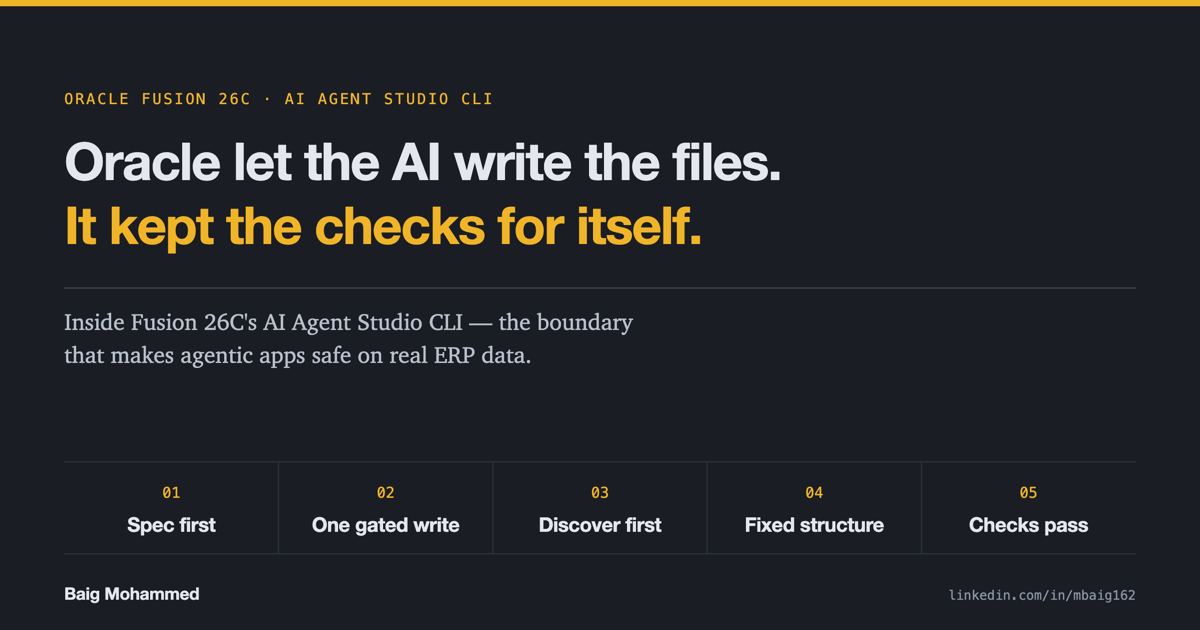
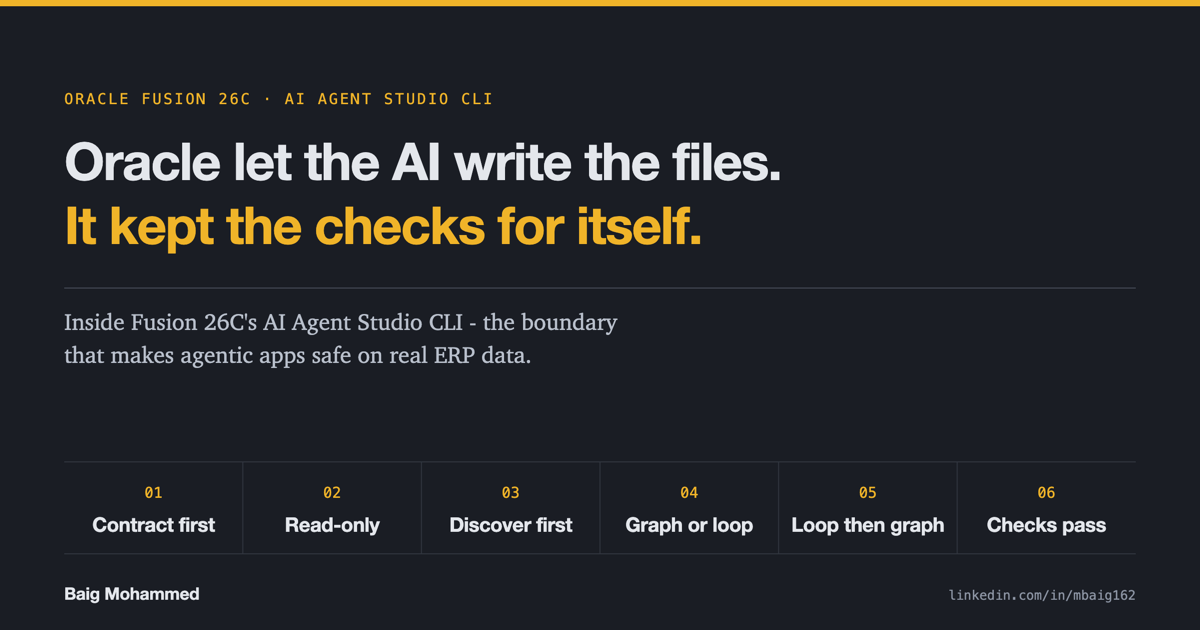
Replace the five rules with six practices, including graph vs loop
Recast the principles section as agent engineering practice rather than a
restatement of one framing: contract before code, read-only until a human
opens the gate, discover first, graph or loop, loop to learn then graph to
ship, and validation as the definition of done.

The two new ones carry what was missing. 04 names the shapes: a graph is
fixed nodes and edges, so the same input takes the same path and a failure
names its node; a loop is the model choosing its next action until it decides
it is done, which handles the unpredictable and wanders. 05 is how they
compose: explore in the loop with a human watching, freeze the proven path
into a graph for production, and where one step stays open-ended bound a loop
inside a single node so the graph keeps control flow. Oracle draws the same
line as workflow teams versus supervisor teams, already compared in section
10, so section 3 now forwards to it.

Six practice cards replace five rule cards plus the summary, so the figure
count stays at 34 and nothing downstream renumbers. Social cards go to six
columns and drop the last em dash.

diff --git a/docs/index.html b/docs/index.html
@@ -21,7 +21,7 @@ if(t==='dark'||t==='light')document.documentElement.setAttribute('data-theme',t)
 <meta property="og:image" content="https://mabaig.github.io/fusion-ai-studio-guide/social/og-card.png">
 <meta property="og:image:width" content="1200">
 <meta property="og:image:height" content="630">
-<meta property="og:image:alt" content="Oracle Let the AI Write the Files. It Kept the Checks for Itself. - and the five rules: spec first, one gated write, discover first, fixed structure, checks pass.">
+<meta property="og:image:alt" content="Oracle Let the AI Write the Files. It Kept the Checks for Itself. - and the six practices: contract first, read-only default, discover first, graph or loop, loop then graph, checks pass.">
 <meta name="twitter:card" content="summary_large_image">
 <meta name="twitter:title" content="Oracle Let the AI Write the Files. It Kept the Checks for Itself.">
 <meta name="twitter:description" content="Every step of driving the Oracle AI Agent Studio CLI from Claude Code, for Fusion release 26C.">
@@ -289,7 +289,7 @@ td code{white-space:nowrap}
 .pill-warn{color:var(--warn);border-color:color-mix(in srgb,var(--warn) 45%,transparent);background:color-mix(in srgb,var(--warn) 10%,transparent)}
 .pill-crit{color:var(--crit);border-color:color-mix(in srgb,var(--crit) 45%,transparent);background:color-mix(in srgb,var(--crit) 9%,transparent)}
 
-/* ─── the five rules ─────────────────────────────────────────────────── */
+/* ─── the six practices ──────────────────────────────────────────────── */
 .rules{margin:2rem 0 2.5rem;border-top:1px solid var(--rule-strong)}
 .rule-row{
   display:grid;grid-template-columns:4.5rem 1fr;gap:1.5rem;
@@ -465,7 +465,7 @@ figure img{transition:box-shadow .5s ease}
     <ol>
       <li><a href="#what"><span class="n">01</span><span>What this actually is</span></a></li>
       <li><a href="#who"><span class="n">02</span><span>Who this is for</span></a></li>
-      <li><a href="#rules"><span class="n">03</span><span>The five rules</span></a></li>
+      <li><a href="#rules"><span class="n">03</span><span>The six practices</span></a></li>
       <li><a href="#before"><span class="n">04</span><span>Before you start</span></a></li>
       <li><a href="#setup"><span class="n">05</span><span>Setup, steps 1&ndash;10</span></a></li>
       <li><a href="#build"><span class="n">06</span><span>First build, steps 11&ndash;16</span></a></li>
@@ -568,74 +568,83 @@ figure img{transition:box-shadow .5s ease}
   </div>
   <div class="card">
     <h4>Everyone else</h4>
-    <p>Stay for the five rules. They apply to any agent you build, on any platform.</p>
+    <p>Stay for the six practices. They apply to any agent you build, on any platform.</p>
   </div>
 </div>
 
 <figure>
-  <img src="images/10-who-this-is-for.webp" alt="Three audiences and how far each one gets: anyone stops at a validated file, Fusion Applications customers get all the way to live for real users, and everyone else stops at the five rules. No Fusion environment is needed to build and validate.">
+  <img src="images/10-who-this-is-for.webp" alt="Three audiences and how far each one gets: anyone stops at a validated file, Fusion Applications customers get all the way to live for real users, and everyone else stops at the six practices. No Fusion environment is needed to build and validate.">
   <figcaption><span class="fn">Fig. 4</span><span>Three audiences, three different stopping points.</span></figcaption>
 </figure>
 </section>
 
 <!-- ═══ 03 ══════════════════════════════════════════════════════════ -->
 <section id="rules">
-<h2><span class="sn">03</span><span>The five rules that make this work</span></h2>
+<h2><span class="sn">03</span><span>The six practices that make this work</span></h2>
 
-<p>Oracle did not just ship a tool. They shipped a set of habits, baked into the skill files. This is the part worth stealing even if you never touch Fusion.</p>
+<p>Oracle did not just ship a tool. They shipped a set of habits, baked into the skill files. Read them as agent engineering practice rather than Fusion trivia - every one of them takes a decision away from the model and hands it to a human or a check, and that holds anywhere a wrong answer costs something.</p>
 
 <div class="rules">
 
   <div class="rule-row">
     <div class="rn">01</div>
     <div>
-      <h3>The spec comes first</h3>
+      <h3>Agree the contract before any code</h3>
       <p>Nothing gets built until the plan is written down and you agree to it. Two screens, three panels, four detail views, and an explicit list of what it will <em>not</em> build yet.</p>
-      <p class="home">At home we say &ldquo;build me an HR app&rdquo; and hope. Here the agent hands you a written plan and waits.</p>
+      <p class="home">Arguing with a paragraph is free. Arguing with a generated build is a rebuild.</p>
     </div>
   </div>
 
   <div class="rule-row">
     <div class="rn">02</div>
     <div>
-      <h3>One gated write action</h3>
-      <p>Out of the box the app can look, but never change anything. Click around, dig in, ask questions - all read-only. The one action that touches real HR data has to be switched on by hand, and it asks before it does anything.</p>
-      <p class="home">Twelve tools and write access to everything, wired up on a Sunday, is how you get an incident.</p>
+      <h3>Read-only until a human opens the gate</h3>
+      <p>Out of the box the app can look, but never change anything. Click around, dig in, ask questions - all read-only. Every action that touches a real record is named, switched on by hand, and asks before it fires.</p>
+      <p class="home">Least privilege expressed as a default, not as a policy document. Twelve tools with write access, wired up on a Sunday, is how you get an incident.</p>
     </div>
   </div>
 
   <div class="rule-row">
     <div class="rn">03</div>
     <div>
-      <h3>Discover before you build</h3>
-      <p>The agent searches your files first, finds the workflows that already exist, and reuses them. It only builds what is genuinely missing, and it never edits or renames the rest.</p>
-      <p class="home">The most expensive agent in a big company is the one that rebuilds something that already existed.</p>
+      <h3>Discover first, and leave what you find alone</h3>
+      <p>The agent searches the workspace before it creates anything, finds the workflows and business objects that already exist, and reuses them. It builds only what is genuinely missing, and it never edits or renames the rest.</p>
+      <p class="home">The rename clause matters more than it looks: other artifacts call those by name. The most expensive agent in a big company is the one that rebuilds something that already existed.</p>
     </div>
   </div>
 
   <div class="rule-row">
     <div class="rn">04</div>
     <div>
-      <h3>Structure over improvisation</h3>
-      <p>Open one of these workflows and the agent is not making it up as it goes. The steps are fixed: work out what was asked, go get the data, let the model think, send back an answer. And it has <strong>sixty seconds</strong> to finish.</p>
-      <p class="home">One prompt, one model, and hope for the best. When speed and correctness both matter, fixed steps win.</p>
+      <h3>Graph the path you know. Loop the one you do not.</h3>
+      <p>Two shapes, and they are not interchangeable. A <strong>graph</strong> is fixed nodes and edges - resolve the request, fetch the data, let the model reason, return an answer. Same input, same path, and when it breaks you know which node broke. A <strong>loop</strong> is the model choosing its next action, seeing the result, and choosing again until it decides it is finished.</p>
+      <p class="home">The loop handles problems whose shape you cannot predict. It also wanders, costs an unpredictable number of turns, and cannot be held to a latency budget. The mistake is rarely picking the wrong one - it is not knowing which one you are in. Oracle draws the same line as workflow teams versus supervisor teams, compared in <a href="#apps">&sect;10</a>.</p>
     </div>
   </div>
 
   <div class="rule-row">
     <div class="rn">05</div>
     <div>
-      <h3>Unvalidated means unfinished</h3>
+      <h3>Loop to learn, graph to ship</h3>
+      <p>This is where the two earn their keep together. Run the loop where exploration is cheap and a human is watching - at build time, in the terminal - then freeze the path it proved into a graph that runs in production. Where a single step stays genuinely open-ended, put a bounded loop inside one graph node with a hard cap on iterations.</p>
+      <p class="home">That way the graph owns control flow and the loop owns only local judgement. It is also exactly what this guide does: a loop in Claude Code, driving validated commands, to produce a graph that ships.</p>
+    </div>
+  </div>
+
+  <div class="rule-row">
+    <div class="rn">06</div>
+    <div>
+      <h3>Validation is the definition of done</h3>
       <p>When the build finishes, the agent does not announce that it is done. It runs the checks first. If the checks have not passed, the skill treats the work as unfinished and fixes it before anything else.</p>
-      <p class="home">Your agent saying &ldquo;done&rdquo; is not proof. The checks passing is.</p>
+      <p class="home">An agent saying &ldquo;done&rdquo; is a prediction about its own output. A check passing is evidence. Only one of those is worth trusting.</p>
     </div>
   </div>
 
 </div>
 
 <figure>
-  <img src="images/09-five-rules-summary.webp" alt="The five rules, each in one line: the spec comes first - agree the plan in writing; one gated write action - it can look, not touch; discover before you build - find what exists, protect it; structure over improvisation - the model works inside fixed steps; unvalidated means unfinished - done means the checks passed.">
-  <figcaption><span class="fn">Fig. 5</span><span>How you ship agents when a wrong answer is not an option.</span></figcaption>
+  <img src="images/07-practice-04-graph-or-loop.webp" alt="Practice 04: graph the path you know, loop the one you do not. A graph is fixed nodes and edges, so the same input takes the same path and a failure names its node. A loop is the model choosing its next action until it decides it is done: flexible, and prone to wandering.">
+  <figcaption><span class="fn">Fig. 5</span><span>The one practice most teams get backwards: knowing which shape you are in.</span></figcaption>
 </figure>
 </section>
 
@@ -1022,7 +1031,7 @@ node .agents/skills/aistudio/scripts/aistudio.js whoami</code></pre></div>
 - Keep everything local. Only fetch, save, publish or push when I explicitly ask.
 - Never publish a workflow from the CLI.
 - After a material edit, run the matching `validate-*` command.
-  Unvalidated means unfinished.
+  Validation is the definition of done.
 - Never write a raw password into env.properties, command arguments, files or logs.
 
 ## Layout
@@ -1152,7 +1161,7 @@ Now wiring the graph.
 
 <figure>
   <img src="images/27-workflow-visual-editor.webp" alt="The Fusion AI Studio visual workflow editor showing a fulfilment workflow graph: resolve order number, resolve order, has order condition, get order lines or order not found, get actionable holds, get info holds.">
-  <figcaption><span class="fn">Fig. 21</span><span>Resolve the order &rarr; <em>has order?</em> &rarr; get the lines, or return <strong>Order Not Found</strong>. No improvisation, and sixty seconds to finish.</span></figcaption>
+  <figcaption><span class="fn">Fig. 21</span><span>Resolve the order &rarr; <em>has order?</em> &rarr; get the lines, or return <strong>Order Not Found</strong>. Every edge on the page before anything runs.</span></figcaption>
 </figure>
 
 <p>Click a <code>.apps</code> file and you get the app editor - the same one that exists in the Fusion UI:</p>
@@ -1753,11 +1762,11 @@ cp -R &lt;newly-unzipped&gt;/aistudio ~/fusion-ai-workspace/.agents/skills/
 <p>The interesting bit is that Oracle wrote down their own expertise as files a machine can read, and put a boundary between the AI and the running system. The AI writes files. Oracle checks the files. Oracle builds the screens. A human approves anything that changes a record.</p>
 
 <figure>
-  <img src="images/34-five-rules-closing.webp" alt="Closing summary: how you ship agents when a wrong answer is not an option - spec first, one gated write, discover first, fixed structure, checks pass. Not Oracle-specific.">
-  <figcaption><span class="fn">Fig. 29</span><span>The five rules are not Oracle-specific. Use them on whatever you build next.</span></figcaption>
+  <img src="images/34-practices-closing.webp" alt="Closing summary: how you ship agents when a wrong answer is not an option - contract first, read-only default, discover first, graph or loop, loop then graph, checks pass. Not Oracle-specific.">
+  <figcaption><span class="fn">Fig. 29</span><span>None of the six is Oracle-specific. Use them on whatever you build next.</span></figcaption>
 </figure>
 
-<p>That is how you ship agents when a wrong answer is not an option. The spec comes first. One gated write action. Discover before you build. Structure over improvisation. Unvalidated means unfinished.</p>
+<p>That is how you ship agents when a wrong answer is not an option. Agree the contract before any code. Read-only until a human opens the gate. Discover first, and leave what you find alone. Graph the path you know, loop the one you do not. Loop to learn, graph to ship. Validation is the definition of done.</p>
 
 <h3>Links</h3>
 <ul>

diff --git a/docs/images/src/34-practices-closing.html b/docs/images/src/34-practices-closing.html
@@ -1,0 +1,1 @@
+<!doctype html><meta charset=utf-8><style>html,body{margin:0;padding:0;background:#1A1D24}svg{display:block}</style><svg xmlns="http://www.w3.org/2000/svg" viewBox="0 0 900 396" width="900" height="396" role="img" aria-label="Closing summary: how you ship agents when a wrong answer is not an option - contract first, read-only default, discover first, graph or loop, loop then graph, checks pass. Not Oracle-specific."><rect width="900" height="396" fill="#1A1D24"/><text x="46" y="52" font-family="SF Mono, Menlo, Consolas, monospace" font-size="10.5" fill="#F0B429" letter-spacing="1.6">TAKE THIS HOME</text><text x="46" y="96" font-family="Helvetica Neue, Helvetica, Arial, sans-serif" font-size="31" font-weight="700" letter-spacing="-0.7"><tspan fill="#E4E7EC">How you ship agents when</tspan></text><text x="46" y="134" font-family="Helvetica Neue, Helvetica, Arial, sans-serif" font-size="31" font-weight="700" letter-spacing="-0.7"><tspan fill="#F0B429">a wrong answer is not an option.</tspan></text><line x1="46" y1="176" x2="854" y2="176" stroke="#31363F" stroke-width="1"/><text x="113.33333333333333" y="214" font-family="SF Mono, Menlo, Consolas, monospace" font-size="11.5" fill="#F0B429" text-anchor="middle">01</text><text x="113.33333333333333" y="248" font-family="Helvetica Neue, Helvetica, Arial, sans-serif" font-size="17" fill="#E4E7EC" font-weight="700" text-anchor="middle" letter-spacing="-0.3">Contract</text><text x="113.33333333333333" y="272" font-family="Helvetica Neue, Helvetica, Arial, sans-serif" font-size="17" fill="#E4E7EC" font-weight="700" text-anchor="middle" letter-spacing="-0.3">first</text><line x1="180.66666666666666" y1="176" x2="180.66666666666666" y2="304" stroke="#31363F" stroke-width="1"/><text x="248.0" y="214" font-family="SF Mono, Menlo, Consolas, monospace" font-size="11.5" fill="#F0B429" text-anchor="middle">02</text><text x="248.0" y="248" font-family="Helvetica Neue, Helvetica, Arial, sans-serif" font-size="17" fill="#E4E7EC" font-weight="700" text-anchor="middle" letter-spacing="-0.3">Read-only</text><text x="248.0" y="272" font-family="Helvetica Neue, Helvetica, Arial, sans-serif" font-size="17" fill="#E4E7EC" font-weight="700" text-anchor="middle" letter-spacing="-0.3">default</text><line x1="315.3333333333333" y1="176" x2="315.3333333333333" y2="304" stroke="#31363F" stroke-width="1"/><text x="382.66666666666663" y="214" font-family="SF Mono, Menlo, Consolas, monospace" font-size="11.5" fill="#F0B429" text-anchor="middle">03</text><text x="382.66666666666663" y="248" font-family="Helvetica Neue, Helvetica, Arial, sans-serif" font-size="17" fill="#E4E7EC" font-weight="700" text-anchor="middle" letter-spacing="-0.3">Discover</text><text x="382.66666666666663" y="272" font-family="Helvetica Neue, Helvetica, Arial, sans-serif" font-size="17" fill="#E4E7EC" font-weight="700" text-anchor="middle" letter-spacing="-0.3">first</text><line x1="450.0" y1="176" x2="450.0" y2="304" stroke="#31363F" stroke-width="1"/><text x="517.3333333333334" y="214" font-family="SF Mono, Menlo, Consolas, monospace" font-size="11.5" fill="#F0B429" text-anchor="middle">04</text><text x="517.3333333333334" y="248" font-family="Helvetica Neue, Helvetica, Arial, sans-serif" font-size="17" fill="#E4E7EC" font-weight="700" text-anchor="middle" letter-spacing="-0.3">Graph or</text><text x="517.3333333333334" y="272" font-family="Helvetica Neue, Helvetica, Arial, sans-serif" font-size="17" fill="#E4E7EC" font-weight="700" text-anchor="middle" letter-spacing="-0.3">loop</text><line x1="584.6666666666666" y1="176" x2="584.6666666666666" y2="304" stroke="#31363F" stroke-width="1"/><text x="652.0" y="214" font-family="SF Mono, Menlo, Consolas, monospace" font-size="11.5" fill="#F0B429" text-anchor="middle">05</text><text x="652.0" y="248" font-family="Helvetica Neue, Helvetica, Arial, sans-serif" font-size="17" fill="#E4E7EC" font-weight="700" text-anchor="middle" letter-spacing="-0.3">Loop then</text><text x="652.0" y="272" font-family="Helvetica Neue, Helvetica, Arial, sans-serif" font-size="17" fill="#E4E7EC" font-weight="700" text-anchor="middle" letter-spacing="-0.3">graph</text><line x1="719.3333333333333" y1="176" x2="719.3333333333333" y2="304" stroke="#31363F" stroke-width="1"/><text x="786.6666666666666" y="214" font-family="SF Mono, Menlo, Consolas, monospace" font-size="11.5" fill="#F0B429" text-anchor="middle">06</text><text x="786.6666666666666" y="248" font-family="Helvetica Neue, Helvetica, Arial, sans-serif" font-size="17" fill="#E4E7EC" font-weight="700" text-anchor="middle" letter-spacing="-0.3">Checks</text><text x="786.6666666666666" y="272" font-family="Helvetica Neue, Helvetica, Arial, sans-serif" font-size="17" fill="#E4E7EC" font-weight="700" text-anchor="middle" letter-spacing="-0.3">pass</text><line x1="46" y1="304" x2="854" y2="304" stroke="#31363F" stroke-width="1"/><text x="46" y="340" font-family="Charter, Bitstream Charter, Sitka Text, Cambria, Georgia, serif" font-size="15.5" fill="#B9C0CC">Not Oracle-specific.</text><text x="198" y="340" font-family="Charter, Bitstream Charter, Sitka Text, Cambria, Georgia, serif" font-size="15.5" fill="#8C94A3">Use them on whatever you build next.</text></svg>

diff --git a/docs/images/src/03-what-is-an-agentic-app.html b/docs/images/src/03-what-is-an-agentic-app.html
@@ -1,0 +1,1 @@
+<!doctype html><meta charset=utf-8><style>html,body{margin:0;padding:0;background:#1A1D24}svg{display:block}</style><svg xmlns="http://www.w3.org/2000/svg" viewBox="0 0 900 384" width="900" height="384" role="img" aria-label="Diagram: live business data is read by an agent workspace that spots what needs attention, explains why it matters and suggests what to do; a human says yes; only then is a real record created in Fusion Applications. Nothing before the human approval can change your data."><rect width="900" height="384" fill="#1A1D24"/><text x="46" y="52" font-family="SF Mono, Menlo, Consolas, monospace" font-size="10.5" fill="#F0B429" letter-spacing="1.6">SO WHAT IS AN AGENTIC APP</text><text x="46" y="88" font-family="Helvetica Neue, Helvetica, Arial, sans-serif" font-size="26" font-weight="700" letter-spacing="-0.5"><tspan fill="#E4E7EC">It is not a chatbot </tspan><tspan fill="#F0B429">bolted onto a dashboard.</tspan></text><rect x="46" y="130" width="160" height="150" rx="4" fill="#22262F" stroke="#454B57" stroke-width="1"/><text x="126.0" y="170" font-family="Helvetica Neue, Helvetica, Arial, sans-serif" font-size="15" fill="#E4E7EC" font-weight="700" text-anchor="middle" letter-spacing="-0.2">Live business data</text><text x="126.0" y="198" font-family="Charter, Bitstream Charter, Sitka Text, Cambria, Georgia, serif" font-size="12" fill="#8C94A3" text-anchor="middle">performance, risk,</text><text x="126.0" y="217" font-family="Charter, Bitstream Charter, Sitka Text, Cambria, Georgia, serif" font-size="12" fill="#8C94A3" text-anchor="middle">pay, plans</text><rect x="262" y="130" width="200" height="150" rx="4" fill="#22262F" stroke="#F0B429" stroke-width="1.5"/><text x="362.0" y="170" font-family="Helvetica Neue, Helvetica, Arial, sans-serif" font-size="15" fill="#F0B429" font-weight="700" text-anchor="middle" letter-spacing="-0.2">Agent workspace</text><text x="362.0" y="198" font-family="Charter, Bitstream Charter, Sitka Text, Cambria, Georgia, serif" font-size="12" fill="#8C94A3" text-anchor="middle">spot what needs attention</text><text x="362.0" y="217" font-family="Charter, Bitstream Charter, Sitka Text, Cambria, Georgia, serif" font-size="12" fill="#8C94A3" text-anchor="middle">explain why it matters</text><text x="362.0" y="236" font-family="Charter, Bitstream Charter, Sitka Text, Cambria, Georgia, serif" font-size="12" fill="#8C94A3" text-anchor="middle">suggest what to do</text><rect x="518" y="130" width="130" height="150" rx="4" fill="#22262F" stroke="#454B57" stroke-width="1" stroke-dasharray="5 4"/><text x="583.0" y="170" font-family="Helvetica Neue, Helvetica, Arial, sans-serif" font-size="15" fill="#E4E7EC" font-weight="700" text-anchor="middle" letter-spacing="-0.2">A human says yes</text><text x="583.0" y="198" font-family="Charter, Bitstream Charter, Sitka Text, Cambria, Georgia, serif" font-size="12" fill="#8C94A3" text-anchor="middle">nothing changes</text><text x="583.0" y="217" font-family="Charter, Bitstream Charter, Sitka Text, Cambria, Georgia, serif" font-size="12" fill="#8C94A3" text-anchor="middle">without this</text><rect x="704" y="130" width="150" height="150" rx="4" fill="#14171D" stroke="#4FBE86" stroke-width="1.5"/><text x="779.0" y="170" font-family="Helvetica Neue, Helvetica, Arial, sans-serif" font-size="15" fill="#4FBE86" font-weight="700" text-anchor="middle" letter-spacing="-0.2">Record created</text><text x="779.0" y="198" font-family="Charter, Bitstream Charter, Sitka Text, Cambria, Georgia, serif" font-size="12" fill="#8C94A3" text-anchor="middle">a real record in</text><text x="779.0" y="217" font-family="Charter, Bitstream Charter, Sitka Text, Cambria, Georgia, serif" font-size="12" fill="#8C94A3" text-anchor="middle">Fusion Applications</text><line x1="214" y1="205.0" x2="247" y2="205.0" stroke="#454B57" stroke-width="1.5"/><path d="M246 200.5 L254 205.0 L246 209.5 Z" fill="#454B57"/><text x="234.0" y="194.0" font-family="SF Mono, Menlo, Consolas, monospace" font-size="10" fill="#8C94A3" text-anchor="middle">reads</text><line x1="470" y1="205.0" x2="503" y2="205.0" stroke="#454B57" stroke-width="1.5"/><path d="M502 200.5 L510 205.0 L502 209.5 Z" fill="#454B57"/><text x="490.0" y="194.0" font-family="SF Mono, Menlo, Consolas, monospace" font-size="10" fill="#8C94A3" text-anchor="middle">suggests</text><line x1="656" y1="205.0" x2="689" y2="205.0" stroke="#4FBE86" stroke-width="1.5"/><path d="M688 200.5 L696 205.0 L688 209.5 Z" fill="#4FBE86"/><text x="676.0" y="194.0" font-family="SF Mono, Menlo, Consolas, monospace" font-size="10" fill="#4FBE86" text-anchor="middle">approved</text><rect x="46" y="296" width="602" height="34" rx="4" fill="#14171D" stroke="#31363F" stroke-width="1"/><text x="347.0" y="318" font-family="SF Mono, Menlo, Consolas, monospace" font-size="12.5" fill="#B9C0CC" text-anchor="middle">nothing on this side can change your data</text><text x="779.0" y="318" font-family="SF Mono, Menlo, Consolas, monospace" font-size="12.5" fill="#4FBE86" text-anchor="middle">one write</text></svg>

diff --git a/docs/images/src/02-oracle-side.html b/docs/images/src/02-oracle-side.html
@@ -1,0 +1,1 @@
+<!doctype html><meta charset=utf-8><style>html,body{margin:0;padding:0;background:#1A1D24}svg{display:block}</style><svg xmlns="http://www.w3.org/2000/svg" viewBox="0 0 900 516" width="900" height="516" role="img" aria-label="Diagram: the files arrive at Oracle AI Agent Studio, which checks every one before it runs and rejects anything wrong. Oracle then builds the screens from its own approved parts for end users inside Fusion Applications, reading business data but never changing it."><rect width="900" height="516" fill="#1A1D24"/><text x="46" y="52" font-family="SF Mono, Menlo, Consolas, monospace" font-size="10.5" fill="#F0B429" letter-spacing="1.6">THEN ORACLE'S SIDE</text><text x="46" y="88" font-family="Helvetica Neue, Helvetica, Arial, sans-serif" font-size="26" fill="#E4E7EC" font-weight="700" letter-spacing="-0.5">Oracle checks, then Oracle builds.</text><rect x="254" y="124" width="600" height="348" rx="6" fill="none" stroke="#454B57" stroke-width="1" stroke-dasharray="5 5"/><text x="554.0" y="150" font-family="SF Mono, Menlo, Consolas, monospace" font-size="10.5" fill="#8C94A3" text-anchor="middle" letter-spacing="1.4">ORACLE FUSION CLOUD APPLICATIONS</text><rect x="288" y="168" width="532" height="74" rx="4" fill="#22262F" stroke="#F0B429" stroke-width="1.5"/><text x="554.0" y="200" font-family="Helvetica Neue, Helvetica, Arial, sans-serif" font-size="17" fill="#F0B429" font-weight="600" text-anchor="middle">Oracle AI Agent Studio</text><text x="554.0" y="223" font-family="Charter, Bitstream Charter, Sitka Text, Cambria, Georgia, serif" font-size="13" fill="#8C94A3" text-anchor="middle">checks every file before it runs</text><line x1="554.0" y1="246" x2="554.0" y2="261" stroke="#454B57" stroke-width="1.5"/><path d="M549.5 260 L554.0 268 L558.5 260 Z" fill="#454B57"/><rect x="288" y="272" width="532" height="74" rx="4" fill="#22262F" stroke="#454B57" stroke-width="1"/><text x="554.0" y="304" font-family="Helvetica Neue, Helvetica, Arial, sans-serif" font-size="17" fill="#E4E7EC" font-weight="600" text-anchor="middle">Oracle builds the screens</text><text x="554.0" y="327" font-family="Charter, Bitstream Charter, Sitka Text, Cambria, Georgia, serif" font-size="13" fill="#8C94A3" text-anchor="middle">using its own approved parts</text><line x1="554.0" y1="350" x2="554.0" y2="365" stroke="#454B57" stroke-width="1.5"/><path d="M549.5 364 L554.0 372 L558.5 364 Z" fill="#454B57"/><rect x="288" y="376" width="532" height="74" rx="4" fill="#22262F" stroke="#454B57" stroke-width="1"/><text x="554.0" y="408" font-family="Helvetica Neue, Helvetica, Arial, sans-serif" font-size="17" fill="#E4E7EC" font-weight="600" text-anchor="middle">End users</text><text x="554.0" y="431" font-family="Charter, Bitstream Charter, Sitka Text, Cambria, Georgia, serif" font-size="13" fill="#8C94A3" text-anchor="middle">inside Fusion Applications</text><line x1="50" y1="206" x2="237" y2="206" stroke="#F0B429" stroke-width="1.5"/><path d="M236 201.5 L244 206 L236 210.5 Z" fill="#F0B429"/><text x="50" y="194" font-family="SF Mono, Menlo, Consolas, monospace" font-size="12" fill="#F0B429">your files arrive</text><text x="50" y="228" font-family="SF Mono, Menlo, Consolas, monospace" font-size="11" fill="#8C94A3">rejected if anything is wrong</text><line x1="244" y1="400" x2="57" y2="400" stroke="#454B57" stroke-width="1.5" stroke-dasharray="5 4"/><path d="M58 395.5 L50 400 L58 404.5 Z" fill="#454B57"/><text x="50" y="388" font-family="SF Mono, Menlo, Consolas, monospace" font-size="12" fill="#8C94A3">look up what exists</text><text x="50" y="422" font-family="SF Mono, Menlo, Consolas, monospace" font-size="11" fill="#8C94A3">reading only, never changing</text></svg>

diff --git a/docs/images/src/01-workspace-side.html b/docs/images/src/01-workspace-side.html
@@ -1,0 +1,1 @@
+<!doctype html><meta charset=utf-8><style>html,body{margin:0;padding:0;background:#1A1D24}svg{display:block}</style><svg xmlns="http://www.w3.org/2000/svg" viewBox="0 0 900 516" width="900" height="516" role="img" aria-label="Diagram: inside your workspace a coding agent drives the aistudio skill and CLI, which write .app, .wf and .bo files — the only files Oracle accepts. Those files are then sent over to Oracle."><rect width="900" height="516" fill="#1A1D24"/><text x="46" y="52" font-family="SF Mono, Menlo, Consolas, monospace" font-size="10.5" fill="#F0B429" letter-spacing="1.6">ON YOUR MACHINE</text><text x="46" y="88" font-family="Helvetica Neue, Helvetica, Arial, sans-serif" font-size="26" fill="#E4E7EC" font-weight="700" letter-spacing="-0.5">You produce files. Nothing else.</text><rect x="46" y="124" width="600" height="348" rx="6" fill="none" stroke="#454B57" stroke-width="1" stroke-dasharray="5 5"/><text x="346.0" y="150" font-family="SF Mono, Menlo, Consolas, monospace" font-size="10.5" fill="#8C94A3" text-anchor="middle" letter-spacing="1.4">YOUR WORKSPACE</text><rect x="80" y="168" width="532" height="74" rx="4" fill="#22262F" stroke="#454B57" stroke-width="1"/><text x="346.0" y="200" font-family="Helvetica Neue, Helvetica, Arial, sans-serif" font-size="17" fill="#E4E7EC" font-weight="600" text-anchor="middle">Coding agent</text><text x="346.0" y="223" font-family="Charter, Bitstream Charter, Sitka Text, Cambria, Georgia, serif" font-size="13" fill="#8C94A3" text-anchor="middle">Claude Code, Codex, your editor</text><line x1="346.0" y1="246" x2="346.0" y2="261" stroke="#454B57" stroke-width="1.5"/><path d="M341.5 260 L346.0 268 L350.5 260 Z" fill="#454B57"/><rect x="80" y="272" width="532" height="74" rx="4" fill="#22262F" stroke="#F0B429" stroke-width="1.5"/><text x="346.0" y="304" font-family="Helvetica Neue, Helvetica, Arial, sans-serif" font-size="17" fill="#F0B429" font-weight="600" text-anchor="middle">aistudio skill + CLI</text><text x="346.0" y="327" font-family="Charter, Bitstream Charter, Sitka Text, Cambria, Georgia, serif" font-size="13" fill="#8C94A3" text-anchor="middle">Oracle's expertise, written down as files</text><line x1="346.0" y1="350" x2="346.0" y2="365" stroke="#454B57" stroke-width="1.5"/><path d="M341.5 364 L346.0 372 L350.5 364 Z" fill="#454B57"/><rect x="80" y="376" width="532" height="74" rx="4" fill="#14171D" stroke="#454B57" stroke-width="1"/><text x="346.0" y="409" font-family="SF Mono, Menlo, Consolas, monospace" font-size="17" fill="#E4E7EC" font-weight="600" text-anchor="middle" letter-spacing="1.5">.app   .wf   .bo</text><text x="346.0" y="432" font-family="Charter, Bitstream Charter, Sitka Text, Cambria, Georgia, serif" font-size="12.5" fill="#8C94A3" text-anchor="middle">the only files Oracle accepts</text><line x1="656" y1="388" x2="843" y2="388" stroke="#F0B429" stroke-width="1.5"/><path d="M842 383.5 L850 388 L842 392.5 Z" fill="#F0B429"/><text x="660" y="376" font-family="SF Mono, Menlo, Consolas, monospace" font-size="12" fill="#F0B429">send it over</text><text x="660" y="410" font-family="SF Mono, Menlo, Consolas, monospace" font-size="11" fill="#8C94A3"></text></svg>

diff --git a/docs/images/src/11-repo-at-a-glance.html b/docs/images/src/11-repo-at-a-glance.html
@@ -1,0 +1,1 @@
+<!doctype html><meta charset=utf-8><style>html,body{margin:0;padding:0;background:#1A1D24}svg{display:block}</style><svg xmlns="http://www.w3.org/2000/svg" viewBox="0 0 900 452" width="900" height="452" role="img" aria-label="Diagram of the oracle/fusion-ai-studio repository: release-26C contains aiapps with 167 sample artifacts, aistudio with the skill, the 288-command CLI and the VS Code extension, and how-to with Oracle's written guides."><rect width="900" height="452" fill="#1A1D24"/><text x="46" y="52" font-family="SF Mono, Menlo, Consolas, monospace" font-size="10.5" fill="#F0B429" letter-spacing="1.6">THE REPO</text><text x="46" y="88" font-family="Helvetica Neue, Helvetica, Arial, sans-serif" font-size="26" fill="#E4E7EC" font-weight="700" letter-spacing="-0.5">One public repo. Three folders.</text><text x="46" y="118" font-family="SF Mono, Menlo, Consolas, monospace" font-size="13" fill="#F0B429">github.com/oracle/fusion-ai-studio</text><line x1="46" y1="146" x2="854" y2="146" stroke="#31363F" stroke-width="1"/><text x="46" y="176" font-family="SF Mono, Menlo, Consolas, monospace" font-size="13.5" fill="#E4E7EC" font-weight="600">release-26C/</text><text x="54" y="224" font-family="SF Mono, Menlo, Consolas, monospace" font-size="13" fill="#E4E7EC">├── aiapps/</text><text x="218" y="221" font-family="Charter, Bitstream Charter, Sitka Text, Cambria, Georgia, serif" font-size="14.5" fill="#B9C0CC">167 sample artifacts across 16 Fusion modules</text><text x="218" y="242" font-family="SF Mono, Menlo, Consolas, monospace" font-size="11.5" fill="#8C94A3">99 .wf  ·  62 .bo  ·  4 .app  ·  2 tools</text><line x1="54" y1="260" x2="854" y2="260" stroke="#31363F" stroke-width="1"/><text x="54" y="286" font-family="SF Mono, Menlo, Consolas, monospace" font-size="13" fill="#E4E7EC">├── aistudio/</text><text x="218" y="283" font-family="Charter, Bitstream Charter, Sitka Text, Cambria, Georgia, serif" font-size="14.5" fill="#B9C0CC">the skill, the CLI and the VS Code extension</text><text x="218" y="304" font-family="SF Mono, Menlo, Consolas, monospace" font-size="11.5" fill="#8C94A3">SKILL.md  ·  288 CLI commands  ·  30 prompt references</text><line x1="54" y1="322" x2="854" y2="322" stroke="#31363F" stroke-width="1"/><text x="54" y="348" font-family="SF Mono, Menlo, Consolas, monospace" font-size="13" fill="#E4E7EC">└── how-to/</text><text x="218" y="345" font-family="Charter, Bitstream Charter, Sitka Text, Cambria, Georgia, serif" font-size="14.5" fill="#B9C0CC">Oracle's own written guides</text><text x="218" y="366" font-family="SF Mono, Menlo, Consolas, monospace" font-size="11.5" fill="#8C94A3">install  ·  configure OAuth  ·  uptake updates</text><line x1="54" y1="384" x2="854" y2="384" stroke="#31363F" stroke-width="1"/><rect x="46" y="384" width="808" height="34" rx="4" fill="#14171D" stroke="#31363F" stroke-width="1"/><text x="62" y="406" font-family="SF Mono, Menlo, Consolas, monospace" font-size="12" fill="#8C94A3">nothing in this guide lives outside release-26C</text></svg>

diff --git a/docs/images/src/10-who-this-is-for.html b/docs/images/src/10-who-this-is-for.html
@@ -1,0 +1,1 @@
+<!doctype html><meta charset=utf-8><style>html,body{margin:0;padding:0;background:#1A1D24}svg{display:block}</style><svg xmlns="http://www.w3.org/2000/svg" viewBox="0 0 900 372" width="900" height="372" role="img" aria-label="Three audiences: anyone can clone the repo and build and validate files locally, Fusion Applications customers can publish to real users, and everyone else can take the six practices."><rect width="900" height="372" fill="#1A1D24"/><text x="46" y="52" font-family="SF Mono, Menlo, Consolas, monospace" font-size="10.5" fill="#F0B429" letter-spacing="1.6">BEFORE WE GO FURTHER</text><text x="46" y="88" font-family="Helvetica Neue, Helvetica, Arial, sans-serif" font-size="26" fill="#E4E7EC" font-weight="700" letter-spacing="-0.5">Let me be straight about who this is for.</text><text x="854" y="130" font-family="SF Mono, Menlo, Consolas, monospace" font-size="10" fill="#8C94A3" text-anchor="end" letter-spacing="1.3">HOW FAR YOU GET</text><line x1="46" y1="140" x2="854" y2="140" stroke="#31363F" stroke-width="1"/><text x="46" y="172.0" font-family="SF Mono, Menlo, Consolas, monospace" font-size="11.5" fill="#F0B429">01</text><text x="90" y="170.0" font-family="Helvetica Neue, Helvetica, Arial, sans-serif" font-size="18" fill="#E4E7EC" font-weight="700" letter-spacing="-0.3">Anyone</text><text x="854" y="170.0" font-family="Charter, Bitstream Charter, Sitka Text, Cambria, Georgia, serif" font-size="13.5" fill="#8C94A3" text-anchor="end">stops at: a validated file</text><line x1="46" y1="198.0" x2="854" y2="198.0" stroke="#31363F" stroke-width="1"/><text x="46" y="230.0" font-family="SF Mono, Menlo, Consolas, monospace" font-size="11.5" fill="#F0B429">02</text><text x="90" y="228.0" font-family="Helvetica Neue, Helvetica, Arial, sans-serif" font-size="18" fill="#E4E7EC" font-weight="700" letter-spacing="-0.3">Fusion Applications customers</text><text x="854" y="228.0" font-family="Charter, Bitstream Charter, Sitka Text, Cambria, Georgia, serif" font-size="13.5" fill="#8C94A3" text-anchor="end">stops at: live for real users</text><line x1="46" y1="256.0" x2="854" y2="256.0" stroke="#31363F" stroke-width="1"/><text x="46" y="288.0" font-family="SF Mono, Menlo, Consolas, monospace" font-size="11.5" fill="#F0B429">03</text><text x="90" y="286.0" font-family="Helvetica Neue, Helvetica, Arial, sans-serif" font-size="18" fill="#E4E7EC" font-weight="700" letter-spacing="-0.3">Everyone else</text><text x="854" y="286.0" font-family="Charter, Bitstream Charter, Sitka Text, Cambria, Georgia, serif" font-size="13.5" fill="#8C94A3" text-anchor="end">stops at: the six practices</text><line x1="46" y1="314.0" x2="854" y2="314.0" stroke="#31363F" stroke-width="1"/><text x="46" y="348" font-family="SF Mono, Menlo, Consolas, monospace" font-size="12" fill="#8C94A3">no Fusion environment needed to build and validate</text></svg>

diff --git a/docs/images/src/07-practice-04-graph-or-loop.html b/docs/images/src/07-practice-04-graph-or-loop.html
@@ -1,0 +1,1 @@
+<!doctype html><meta charset=utf-8><style>html,body{margin:0;padding:0;background:#1A1D24}svg{display:block}</style><svg xmlns="http://www.w3.org/2000/svg" viewBox="0 0 900 296" width="900" height="296" role="img" aria-label="Practice 04: Graph the path you know. Loop the one you do not. A graph is fixed nodes and edges: same input, same path, and when it breaks you know which node broke. A loop is the model choosing its next action until it decides it is done: flexible, and prone to wandering."><rect width="900" height="296" fill="#1A1D24"/><text x="46" y="52" font-family="SF Mono, Menlo, Consolas, monospace" font-size="10.5" fill="#F0B429" letter-spacing="1.6">AGENT ENGINEERING PRACTICE</text><text x="46" y="132" font-family="SF Mono, Menlo, Consolas, monospace" font-size="64" fill="#454B57" font-weight="600">04</text><text x="164" y="96" font-family="Helvetica Neue, Helvetica, Arial, sans-serif" font-size="30" font-weight="700" letter-spacing="-0.6"><tspan fill="#E4E7EC">Graph the path you know. </tspan><tspan fill="#F0B429">Loop the one you do not.</tspan></text><text x="164" y="140" font-family="Charter, Bitstream Charter, Sitka Text, Cambria, Georgia, serif" font-size="15.5" fill="#B9C0CC">A graph is fixed nodes and edges: same input, same path, and when it</text><text x="164" y="167" font-family="Charter, Bitstream Charter, Sitka Text, Cambria, Georgia, serif" font-size="15.5" fill="#B9C0CC">breaks you know which node broke. A loop is the model choosing its next</text><text x="164" y="194" font-family="Charter, Bitstream Charter, Sitka Text, Cambria, Georgia, serif" font-size="15.5" fill="#B9C0CC">action until it decides it is done: flexible, and prone to wandering.</text><line x1="164" y1="226" x2="854" y2="226" stroke="#31363F" stroke-width="1"/><text x="164" y="252" font-family="SF Mono, Menlo, Consolas, monospace" font-size="12" fill="#8C94A3">the mistake is not picking wrong, it is not knowing which you are in</text></svg>

diff --git a/docs/images/src/06-practice-03-discover.html b/docs/images/src/06-practice-03-discover.html
@@ -1,0 +1,1 @@
+<!doctype html><meta charset=utf-8><style>html,body{margin:0;padding:0;background:#1A1D24}svg{display:block}</style><svg xmlns="http://www.w3.org/2000/svg" viewBox="0 0 900 296" width="900" height="296" role="img" aria-label="Practice 03: Discover first, and leave what you find alone. The agent searches the workspace first, finds what already exists, and reuses it. It builds only what is genuinely missing, and never edits or renames the rest, because other artifacts call those by name."><rect width="900" height="296" fill="#1A1D24"/><text x="46" y="52" font-family="SF Mono, Menlo, Consolas, monospace" font-size="10.5" fill="#F0B429" letter-spacing="1.6">AGENT ENGINEERING PRACTICE</text><text x="46" y="132" font-family="SF Mono, Menlo, Consolas, monospace" font-size="64" fill="#454B57" font-weight="600">03</text><text x="164" y="96" font-family="Helvetica Neue, Helvetica, Arial, sans-serif" font-size="30" font-weight="700" letter-spacing="-0.6"><tspan fill="#E4E7EC">Discover first, and leave </tspan><tspan fill="#F0B429">what you find alone.</tspan></text><text x="164" y="140" font-family="Charter, Bitstream Charter, Sitka Text, Cambria, Georgia, serif" font-size="15.5" fill="#B9C0CC">The agent searches the workspace first, finds what already exists, and</text><text x="164" y="167" font-family="Charter, Bitstream Charter, Sitka Text, Cambria, Georgia, serif" font-size="15.5" fill="#B9C0CC">reuses it. It builds only what is genuinely missing, and never edits or</text><text x="164" y="194" font-family="Charter, Bitstream Charter, Sitka Text, Cambria, Georgia, serif" font-size="15.5" fill="#B9C0CC">renames the rest, because other artifacts call those by name.</text><line x1="164" y1="226" x2="854" y2="226" stroke="#31363F" stroke-width="1"/><text x="164" y="252" font-family="SF Mono, Menlo, Consolas, monospace" font-size="12" fill="#8C94A3">the most expensive agent rebuilds what already existed</text></svg>

diff --git a/docs/images/src/04-practice-01-contract.html b/docs/images/src/04-practice-01-contract.html
@@ -1,0 +1,1 @@
+<!doctype html><meta charset=utf-8><style>html,body{margin:0;padding:0;background:#1A1D24}svg{display:block}</style><svg xmlns="http://www.w3.org/2000/svg" viewBox="0 0 900 296" width="900" height="296" role="img" aria-label="Practice 01: Agree the contract before any code. Nothing gets built until the plan is written down and you agree to it: the screens, the panels, and an explicit list of what it will not build yet. Arguing with a paragraph is free. A generated build is a rebuild."><rect width="900" height="296" fill="#1A1D24"/><text x="46" y="52" font-family="SF Mono, Menlo, Consolas, monospace" font-size="10.5" fill="#F0B429" letter-spacing="1.6">AGENT ENGINEERING PRACTICE</text><text x="46" y="132" font-family="SF Mono, Menlo, Consolas, monospace" font-size="64" fill="#454B57" font-weight="600">01</text><text x="164" y="96" font-family="Helvetica Neue, Helvetica, Arial, sans-serif" font-size="30" font-weight="700" letter-spacing="-0.6"><tspan fill="#E4E7EC">Agree the contract </tspan><tspan fill="#F0B429">before any code.</tspan></text><text x="164" y="140" font-family="Charter, Bitstream Charter, Sitka Text, Cambria, Georgia, serif" font-size="15.5" fill="#B9C0CC">Nothing gets built until the plan is written down and you agree to it:</text><text x="164" y="167" font-family="Charter, Bitstream Charter, Sitka Text, Cambria, Georgia, serif" font-size="15.5" fill="#B9C0CC">the screens, the panels, and an explicit list of what it will not build</text><text x="164" y="194" font-family="Charter, Bitstream Charter, Sitka Text, Cambria, Georgia, serif" font-size="15.5" fill="#B9C0CC">yet. Arguing with a paragraph is free. A generated build is a rebuild.</text><line x1="164" y1="226" x2="854" y2="226" stroke="#31363F" stroke-width="1"/><text x="164" y="252" font-family="SF Mono, Menlo, Consolas, monospace" font-size="12" fill="#8C94A3">the agent hands you a written scope and waits</text></svg>

diff --git a/docs/images/src/08-practice-05-loop-to-graph.html b/docs/images/src/08-practice-05-loop-to-graph.html
@@ -1,0 +1,1 @@
+<!doctype html><meta charset=utf-8><style>html,body{margin:0;padding:0;background:#1A1D24}svg{display:block}</style><svg xmlns="http://www.w3.org/2000/svg" viewBox="0 0 900 296" width="900" height="296" role="img" aria-label="Practice 05: Loop to learn, graph to ship. Explore in the loop where a human is watching, then freeze the path it proved into a graph for production. Where one step stays open-ended, put a bounded loop inside a single node, with a hard cap on iterations."><rect width="900" height="296" fill="#1A1D24"/><text x="46" y="52" font-family="SF Mono, Menlo, Consolas, monospace" font-size="10.5" fill="#F0B429" letter-spacing="1.6">AGENT ENGINEERING PRACTICE</text><text x="46" y="132" font-family="SF Mono, Menlo, Consolas, monospace" font-size="64" fill="#454B57" font-weight="600">05</text><text x="164" y="96" font-family="Helvetica Neue, Helvetica, Arial, sans-serif" font-size="30" font-weight="700" letter-spacing="-0.6"><tspan fill="#E4E7EC">Loop to learn, </tspan><tspan fill="#F0B429">graph to ship.</tspan></text><text x="164" y="140" font-family="Charter, Bitstream Charter, Sitka Text, Cambria, Georgia, serif" font-size="15.5" fill="#B9C0CC">Explore in the loop where a human is watching, then freeze the path it</text><text x="164" y="167" font-family="Charter, Bitstream Charter, Sitka Text, Cambria, Georgia, serif" font-size="15.5" fill="#B9C0CC">proved into a graph for production. Where one step stays open-ended, put</text><text x="164" y="194" font-family="Charter, Bitstream Charter, Sitka Text, Cambria, Georgia, serif" font-size="15.5" fill="#B9C0CC">a bounded loop inside a single node, with a hard cap on iterations.</text><line x1="164" y1="226" x2="854" y2="226" stroke="#31363F" stroke-width="1"/><text x="164" y="252" font-family="SF Mono, Menlo, Consolas, monospace" font-size="12" fill="#8C94A3">the graph owns control flow, the loop owns local judgement</text></svg>

diff --git a/docs/images/src/09-practice-06-validated.html b/docs/images/src/09-practice-06-validated.html
@@ -1,0 +1,1 @@
+<!doctype html><meta charset=utf-8><style>html,body{margin:0;padding:0;background:#1A1D24}svg{display:block}</style><svg xmlns="http://www.w3.org/2000/svg" viewBox="0 0 900 296" width="900" height="296" role="img" aria-label="Practice 06: Validation is the definition of done. When the build finishes the agent does not announce that it is done. It runs the checks first, and if they have not passed it treats the work as unfinished and fixes it before anything else."><rect width="900" height="296" fill="#1A1D24"/><text x="46" y="52" font-family="SF Mono, Menlo, Consolas, monospace" font-size="10.5" fill="#F0B429" letter-spacing="1.6">AGENT ENGINEERING PRACTICE</text><text x="46" y="132" font-family="SF Mono, Menlo, Consolas, monospace" font-size="64" fill="#454B57" font-weight="600">06</text><text x="164" y="96" font-family="Helvetica Neue, Helvetica, Arial, sans-serif" font-size="30" font-weight="700" letter-spacing="-0.6"><tspan fill="#E4E7EC">Validation is the </tspan><tspan fill="#F0B429">definition of done.</tspan></text><text x="164" y="140" font-family="Charter, Bitstream Charter, Sitka Text, Cambria, Georgia, serif" font-size="15.5" fill="#B9C0CC">When the build finishes the agent does not announce that it is done. It</text><text x="164" y="167" font-family="Charter, Bitstream Charter, Sitka Text, Cambria, Georgia, serif" font-size="15.5" fill="#B9C0CC">runs the checks first, and if they have not passed it treats the work as</text><text x="164" y="194" font-family="Charter, Bitstream Charter, Sitka Text, Cambria, Georgia, serif" font-size="15.5" fill="#B9C0CC">unfinished and fixes it before anything else.</text><line x1="164" y1="226" x2="854" y2="226" stroke="#31363F" stroke-width="1"/><text x="164" y="252" font-family="SF Mono, Menlo, Consolas, monospace" font-size="12" fill="#8C94A3">done is a prediction; a check passing is evidence</text></svg>
